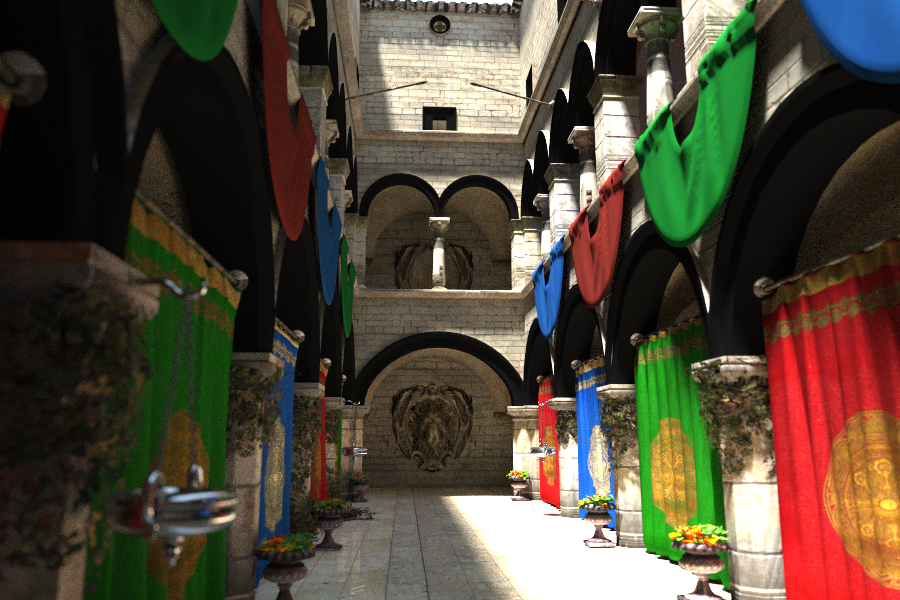
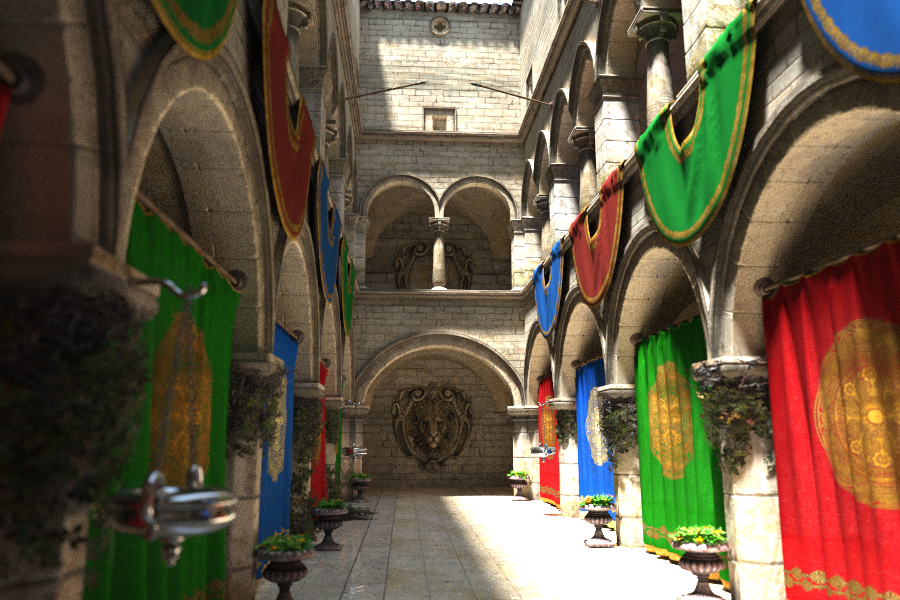
Fixing texture y-axis direction.

diff --git a/tests/lambertian_obj.cpp b/tests/lambertian_obj.cpp
@@ -60,7 +60,7 @@ LambertianObject::LambertianObject(PathTracer& pt, const char* path, const char*
 			float* np = &attrib.normals[3 * index.normal_index];
 			vertex.Normal = glm::vec3(np[0], np[1], np[2]);
 			float* tp = &attrib.texcoords[2 * index.texcoord_index];
-			vertex.TexCoord = glm::vec2(tp[0], tp[1]);
+			vertex.TexCoord = glm::vec2(tp[0], 1.0f - tp[1]);
 			vertices.push_back(vertex);
 		}
 

diff --git a/PyFeiRays/Scene.cpp b/PyFeiRays/Scene.cpp
@@ -199,7 +199,7 @@ void Scene::add_wavefront_object(const glm::mat4x4& model, const char* path, con
 	for (size_t i = 0; i < tex_coords.size(); i++)
 	{
 		float* tp = &attrib.texcoords[2 * i];
-		tex_coords[i] = glm::vec2(tp[0], tp[1]);
+		tex_coords[i] = glm::vec2(tp[0], 1.0f - tp[1]);
 	}
 
 	std::vector<WavefrontIndexedTriangleList::Index> indices;

diff --git a/tests/wavefront_obj.cpp b/tests/wavefront_obj.cpp
@@ -96,7 +96,7 @@ WavefrontObject::WavefrontObject(PathTracer& pt, const char* path, const char* f
 	for (size_t i = 0; i < tex_coords.size(); i++)
 	{
 		float* tp = &attrib.texcoords[2 * i];
-		tex_coords[i] = glm::vec2(tp[0], tp[1]);
+		tex_coords[i] = glm::vec2(tp[0], 1.0f - tp[1]);
 	}
 
 	std::vector<WavefrontIndexedTriangleList::Index> indices;

diff --git a/README.md b/README.md
@@ -9,7 +9,7 @@ Now playing with [McGuire Computer Graphics Archive](https://casual-effects.com/
 
 <img src="gallery/sponza.png" width="900px">
 
-The "sponza" model, 900x600x1000 rays, rendered in 20.3 seconds using RTX 2060 super.
+The "sponza" model, 900x600x1000 rays, rendered in 24.5 seconds using RTX 2060 super.
 
 <img src="gallery/breakfast_room.png" width="900px">
 
